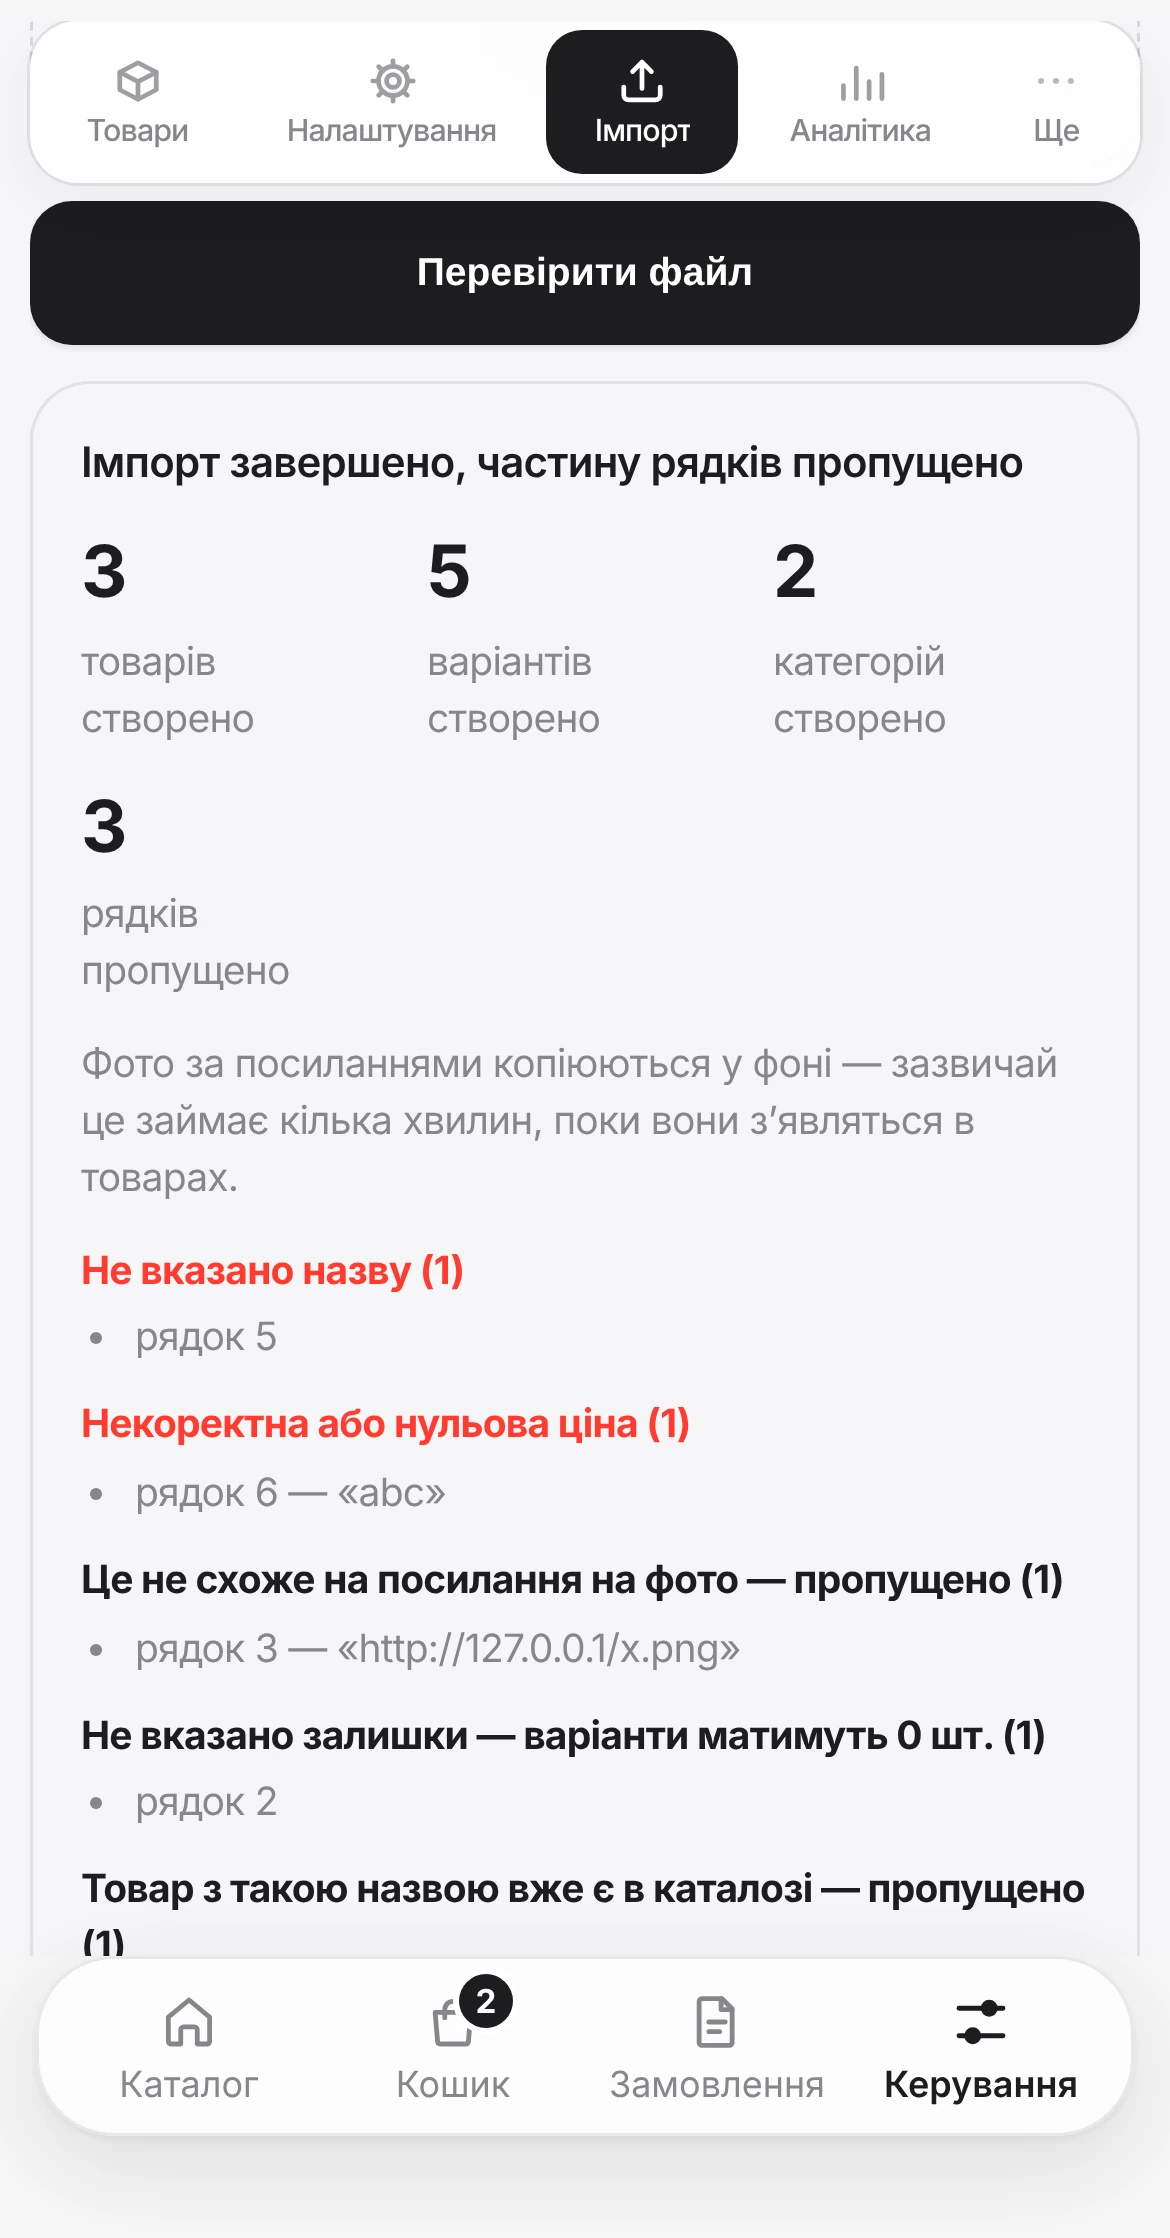
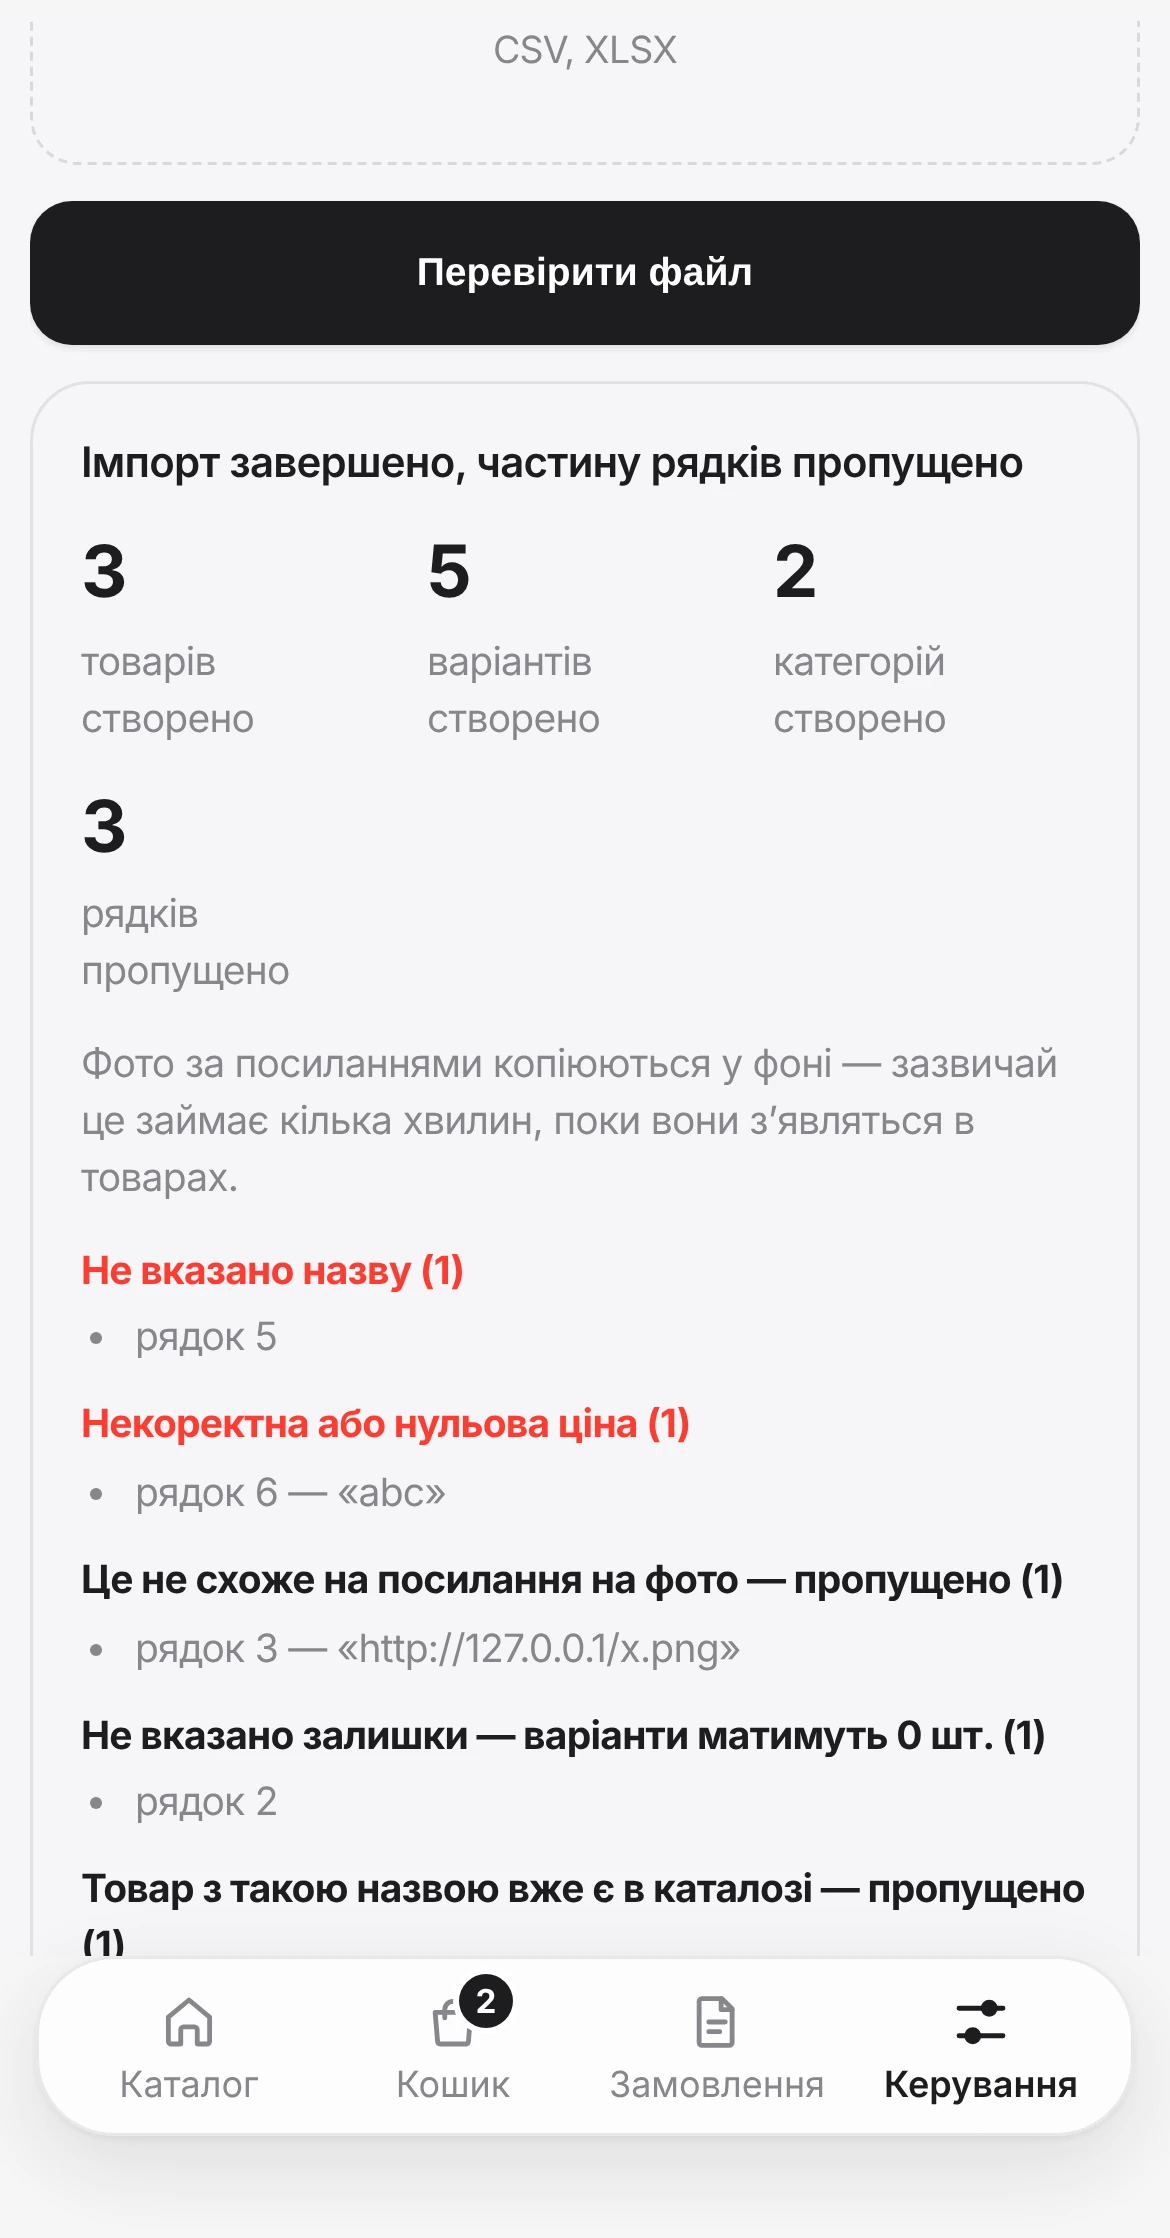
Керування: вкладки гортаються свайпом, ряд ховається при прокрутці; нові знімки
Claude-Session: https://claude.ai/code/session_01Tv2wQKJRwy2x9o7FNnTaLJ

diff --git a/docs/_internal/platform-facts.md b/docs/_internal/platform-facts.md
@@ -357,7 +357,7 @@ refs для міста і відділення.
 
 **Створення магазину.** У боті платформи кнопка `🛍 Створити мій магазин` (також `/connect`, `t.me/<бот>?start=connect`): крок 1 — назва, крок 2 — токен бота з @BotFather (повідомлення з токеном видаляється, токен шифрується). Пробний період 14 днів.
 
-**WebApp.** Нижня панель (адмін): `Каталог`, `Кошик`, `Замовлення`, `Керування`. Вкладки `Керування` (`HUB_TABS`): `Товари`, `Налаштування`, `Імпорт`, `Промокоди`, `Кампанії`, `Аналітика`, `Крос-продажі`, `Клієнти`, `Платформа` (лише платформний адмін). На телефоні в ряду: `Товари`, `Налаштування`, `Аналітика`, `Клієнти`, `Ще` (меню: `Імпорт`, `Промокоди`, `Кампанії`, `Крос-продажі`).
+**WebApp.** Нижня панель (адмін): `Каталог`, `Кошик`, `Замовлення`, `Керування`. Вкладки `Керування` (`HUB_TABS`): `Товари`, `Налаштування`, `Імпорт`, `Промокоди`, `Кампанії`, `Аналітика`, `Крос-продажі`, `Клієнти`, `Платформа` (лише платформний адмін). Порядок у ряду: `Товари`, `Налаштування`, `Аналітика`, `Клієнти`, `Промокоди`, `Кампанії`, `Крос-продажі`, `Імпорт`. **Навігація (2026-11-15):** меню `Ще` і стрілки прибрані. Ряд вкладок і ряд розділів `Налаштування` мають однаковий вигляд (висота 44px, шрифт 14px, іконка поруч із підписом); те, що не влізло, відкривається свайпом, край ряду тьмяніє, вибраний пункт прокручується в поле зору. Під час прокрутки сторінки вниз ряд вкладок ховається, розділи `Налаштування` закріплюються вгорі; прокрутка вгору (або верх сторінки) повертає вкладки. Активна вкладка залита акцентом, активний розділ — легким тоном.
 
 **Налаштування.** Категорії: `Усі`, `Підписка`, `Оплати`, `Покупці`, `Модулі`, `Доставка`, `Вигляд`, `Команда`, `Контент`.
 

diff --git a/docs/import.md b/docs/import.md
@@ -7,7 +7,7 @@ icon: ph/file-arrow-up
 <p class="lede">Завантажте всі товари одним файлом замість того, щоб додавати їх по одному. Система спочатку перевіряє файл і показує, що саме буде додано, — і лише після вашого підтвердження створює товари. Помилились — імпорт можна скасувати.</p>
 
 !!! info "Де знаходиться"
-    `Керування` → `Ще` → `Імпорт` (або кнопка `Імпорт товарів` на екрані `Товари`). Потрібен тариф **Pro** або вище; на нижчому тарифі вкладки немає.
+    `Керування` → `Імпорт` (або кнопка `Імпорт товарів` на екрані `Товари`). Потрібен тариф **Pro** або вище; на нижчому тарифі вкладки немає.
 
 ---
 

diff --git a/docs/assets/shots/README.md b/docs/assets/shots/README.md
@@ -34,7 +34,7 @@ python tools/export_shots.py <шлях до insomnia.workshop>/tools/webapp-harn
 | Файл | Що на ньому | Сторінка |
 |---|---|---|
 | `shell-catalog` | Вітрина з нижньою панеллю | index, quick-start, owner-guide |
-| `hub-products`, `hub-more-menu` | Розділ «Керування» і меню «Ще» | index, owner-guide |
+| `hub-products`, `hub-tabs-swipe` | Розділ «Керування» і ряд вкладок, прогорнутий свайпом | index, owner-guide |
 | `categories` | Вікно «Категорії» (сценарій додано в `tools/docshots-harness.patch`) | quick-start, owner-guide |
 | `product-create`, `product-create-variants`, `product-preview` | Екран товару: верх, варіанти й залишки, перегляд у магазині | quick-start, owner-guide |
 | `import-empty`, `import-preview`, `import-result` | Імпорт каталогу | import |
